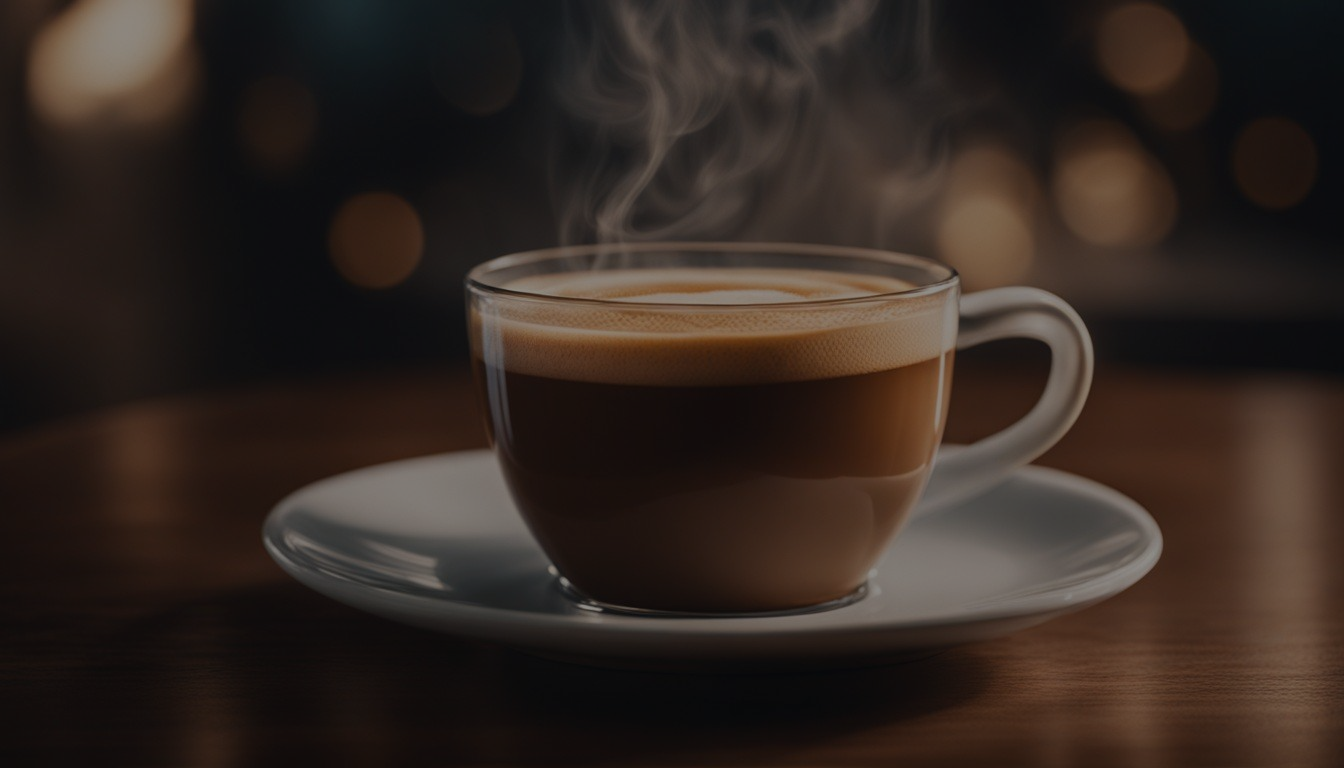
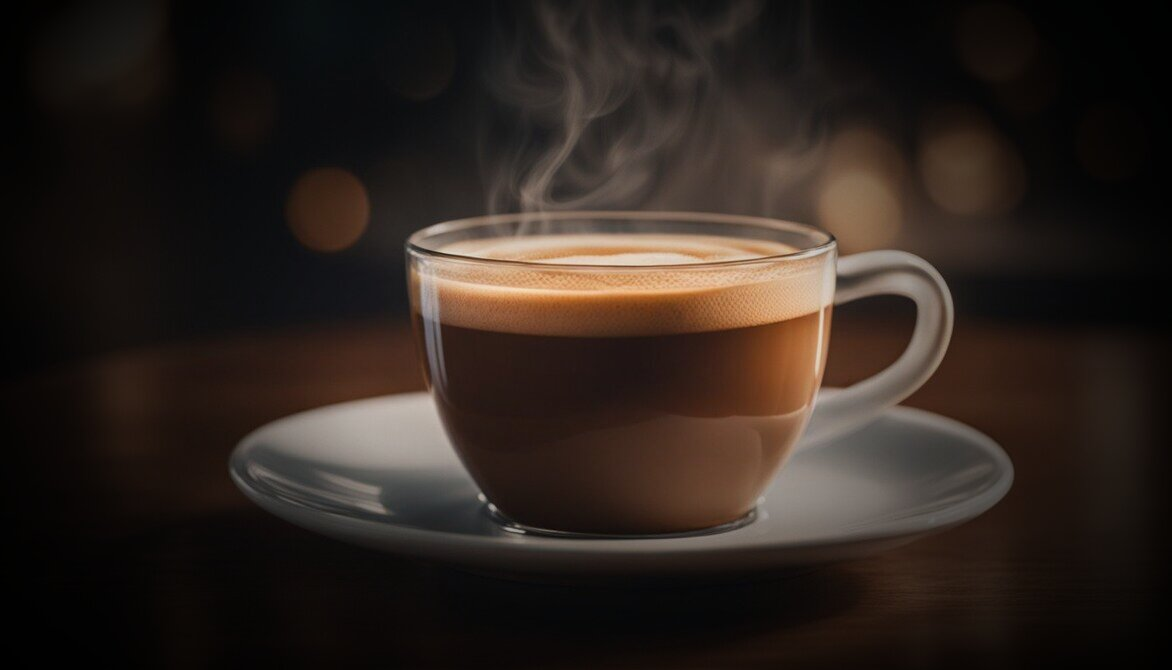
Improved menu carousel

diff --git a/JS/app.js b/JS/app.js
@@ -25,6 +25,7 @@ import {
     expandNavbarBtn,
     lockNavbarBtn,
     menuCarousels,
+    menuCarouselBtns,
 } from './utils.js';
 
 handleMediaQueryChange(mediaQuery); // Fires the handleMediaQueryChange function from the start
@@ -50,8 +51,27 @@ mediaQuery.addEventListener('change', handleMediaQueryChange); // Listens for ch
 window.addEventListener('load', startSlideshow); // Starts the slideshow when the page loads
 
 menuCarousels.forEach(carousel => { // Adds event listeners for mouse events on each menu carousel
-    carousel.addEventListener('mousedown', event => handleMouseDown(event, carousel));
+    carousel.addEventListener('mousedown', (event) => handleMouseDown(event, carousel));
     carousel.addEventListener('mousemove', event => handleMouseMove(event, carousel));
     carousel.addEventListener('mouseup', () => handleMouseUp(carousel));
     carousel.addEventListener('mouseleave', () => handleMouseUp(carousel));
+})
+
+
+
+
+
+const menuContent = document.querySelector('.menu__content');
+
+const cardOffset = document.querySelector('.menu__card').offsetWidth;
+const gapOffset = parseFloat(getComputedStyle(menuContent).getPropertyValue('--gap'));
+const offsetWidth = cardOffset + gapOffset;
+const carouselCards = document.querySelectorAll('.menu__card');
+console.log(offsetWidth);
+
+menuCarouselBtns.forEach(btn => { // Adds a click to each button of each menu carousel
+    btn.addEventListener('click', () => {
+        console.log('button clicked');
+        btn.parentElement.querySelector('.menu__card-list').scrollLeft += btn.classList.contains('prev') ? -offsetWidth : offsetWidth;
+    })
 })

diff --git a/index.html b/index.html
@@ -265,13 +265,13 @@
                     <ul class="menu__card-list">
                         <li class="menu__card">
                             <h4 class="menu__card-title">Cappuccino</h4>
-                            <img class="menu__card-img" src="./assets/imgs/cappuccino2.jpg" alt="cappuccino"
+                            <img class="menu__card-img" src="./assets/imgs/cappuccino.png" alt="cappuccino"
                                 draggable="false">
-                        </li>
+                        </li>`
 
                         <li class="menu__card">
                             <h4 class="menu__card-title">Doppio</h4>
-                            <img class="menu__card-img" src="./assets/imgs/doppio.jpg" alt="doppio" draggable="false">
+                            <img class="menu__card-img" src="./assets/imgs/doppio3.jpg" alt="doppio" draggable="false">
                         </li>
 
                         <li class="menu__card">
@@ -304,7 +304,7 @@
 
                         <li class="menu__card">
                             <h4 class="menu__card-title">Affogato</h4>
-                            <img class="menu__card-img" src="./assets/imgs/affogato2.jpg" alt="affogato"
+                            <img class="menu__card-img" src="./assets/imgs/affogato3.jpg" alt="affogato"
                                 draggable="false">
                         </li>
 

diff --git a/JS/utils.js b/JS/utils.js
@@ -8,7 +8,8 @@ const mainNavBtns = mainNavWrapper.querySelector('.main-nav__btns'); // Selects 
 const navbar = document.querySelector('.main-nav').parentElement; // Selects the header of the page
 const expandNavbarBtn = document.querySelector('#js-expand-navbar'); // Selects the expand navbar button
 const lockNavbarBtn = document.querySelector('#js-lock-navbar'); // Selects the lock navbar button
-const menuCarousels = document.querySelectorAll('.menu__card-list'); // Selects the first carousel of the menu
+const menuCarousels = document.querySelectorAll('.menu__card-list'); // Selects the menu carousels
+const menuCarouselBtns = document.querySelectorAll('.menu__slider-btn'); // Selects the control buttons of each menu carousel
 const main = document.querySelector('main'); // Selects the 'main' element
 const controls = document.querySelector('.controls'); // Selects the 'controls' section
 const footer = document.querySelector('footer'); // Selects the footer
@@ -412,4 +413,5 @@ export {
     expandNavbarBtn,
     lockNavbarBtn,
     menuCarousels,
+    menuCarouselBtns,
 };

diff --git a/CSS/sections/menu.css b/CSS/sections/menu.css
@@ -58,8 +58,15 @@
     grid-auto-columns: calc(100% / var(--num-cards) - 25px);
     gap: var(--gap);
     padding: 25px calc(50px + var(--gap));
-    overflow-x: hidden;
+    overflow-x: scroll;
     cursor: grab;
+    scroll-snap-type: x mandatory;
+    scroll-behavior: smooth;
+    scrollbar-width: none;
+}
+
+.menu__card-list::-webkit-scrollbar {
+    display: none;
 }
 
 .menu__card-list.dragging {
@@ -67,7 +74,11 @@
     user-select: none;
 }
 
-.menu__card-list:has(:hover)>.menu__card:not(:hover) {
+.menu__carousel:has(.menu__card-list.dragging) .menu__slider-btn {
+    pointer-events: none;
+}
+
+.menu__card-list.dragging .menu__card-list:has(:hover)>.menu__card:not(:hover) {
     transform: scale(0.9);
     opacity: 0.85;
 }
@@ -80,6 +91,7 @@
     cursor: pointer;
     transition: var(--transition-time-1);
     box-shadow: 10px 10px 10px var(--bg-dark-3);
+    scroll-snap-align: center;
 }
 
 .menu__card-title {
